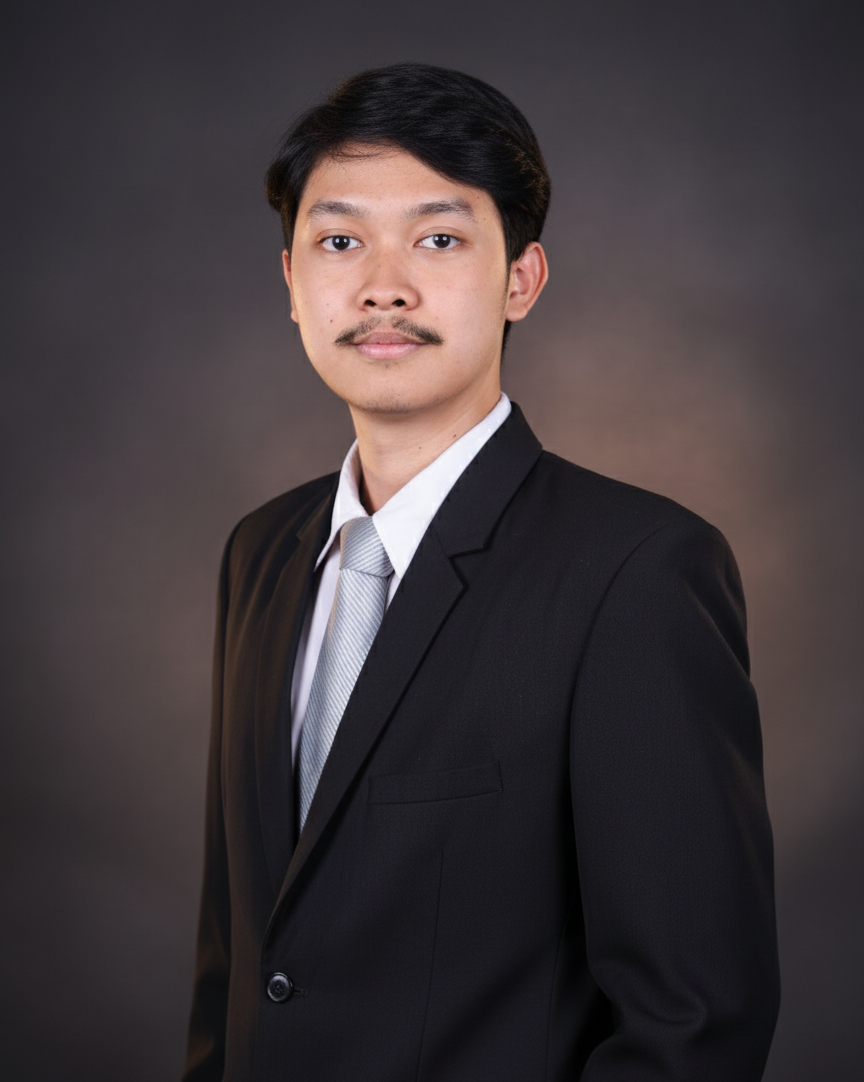
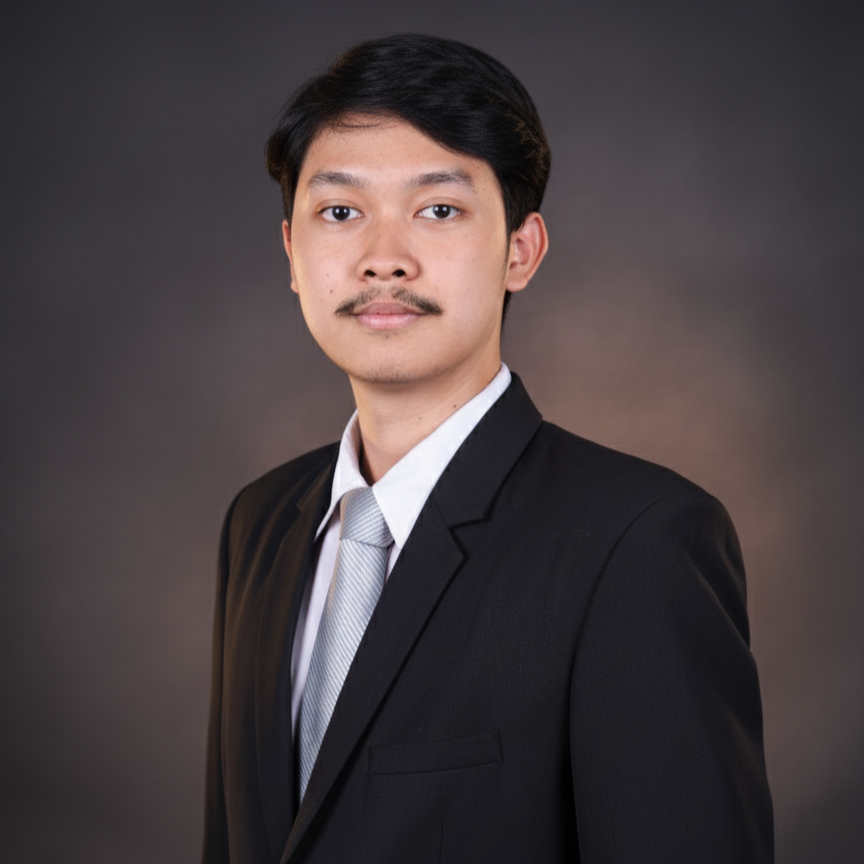
s

diff --git a/app/page.tsx b/app/page.tsx
@@ -173,7 +173,7 @@ export default function Portfolio() {
       {/* Hero Section */}
       <section className="pt-24 pb-16 px-6">
         <div className="container mx-auto">
-          <div className="flex flex-col lg:flex-row items-center gap-20 lg:gap-12 max-w-6xl mx-auto">
+          <div className="flex flex-col lg:flex-row items-center gap-24 lg:gap-12 max-w-6xl mx-auto">
             {/* Profile Photo */}
             <div className="relative">
               <div className="relative w-80 h-80 lg:w-96 lg:h-96">
@@ -185,7 +185,7 @@ export default function Portfolio() {
                         alt="Muhammad Arkan Adli"
                         width={400}
                         height={400}
-                        className="rounded-xl object-center object-top w-full h-full"
+                        className="rounded-xl object-cover object-top w-full h-full"
                         priority
                         onError={() => setPhotoSrc("/professional-developer-portrait.png")}
                         />
